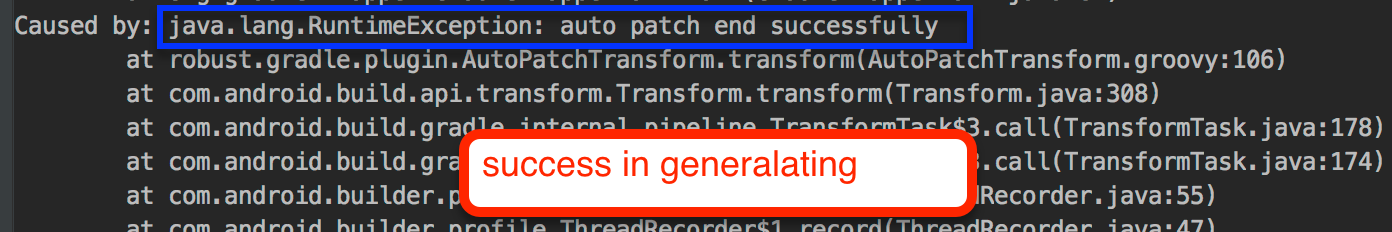
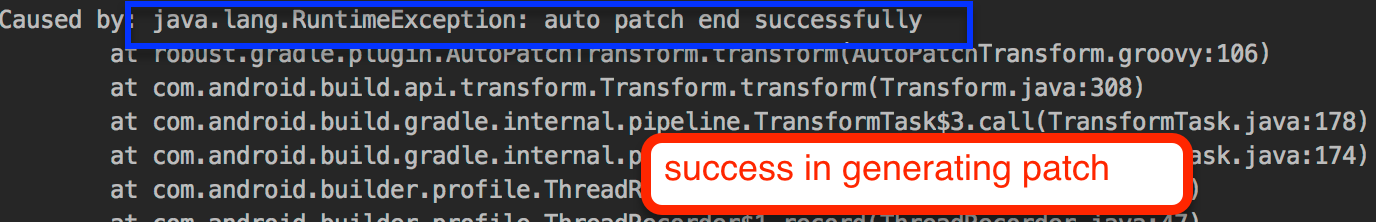
modify picture

diff --git a/README.md b/README.md
@@ -104,7 +104,7 @@ AutoPatch will generate patch for Robust automatically.You just need to fellow b
 5. Generating patches always end like this,which means patches is done
 ![Success in generating patch](images/patchsuccess_en.png)
 
-# Demo Usage：
+# Demo Usage
 1. Excute fellow command to build apk：
 
 	```java
